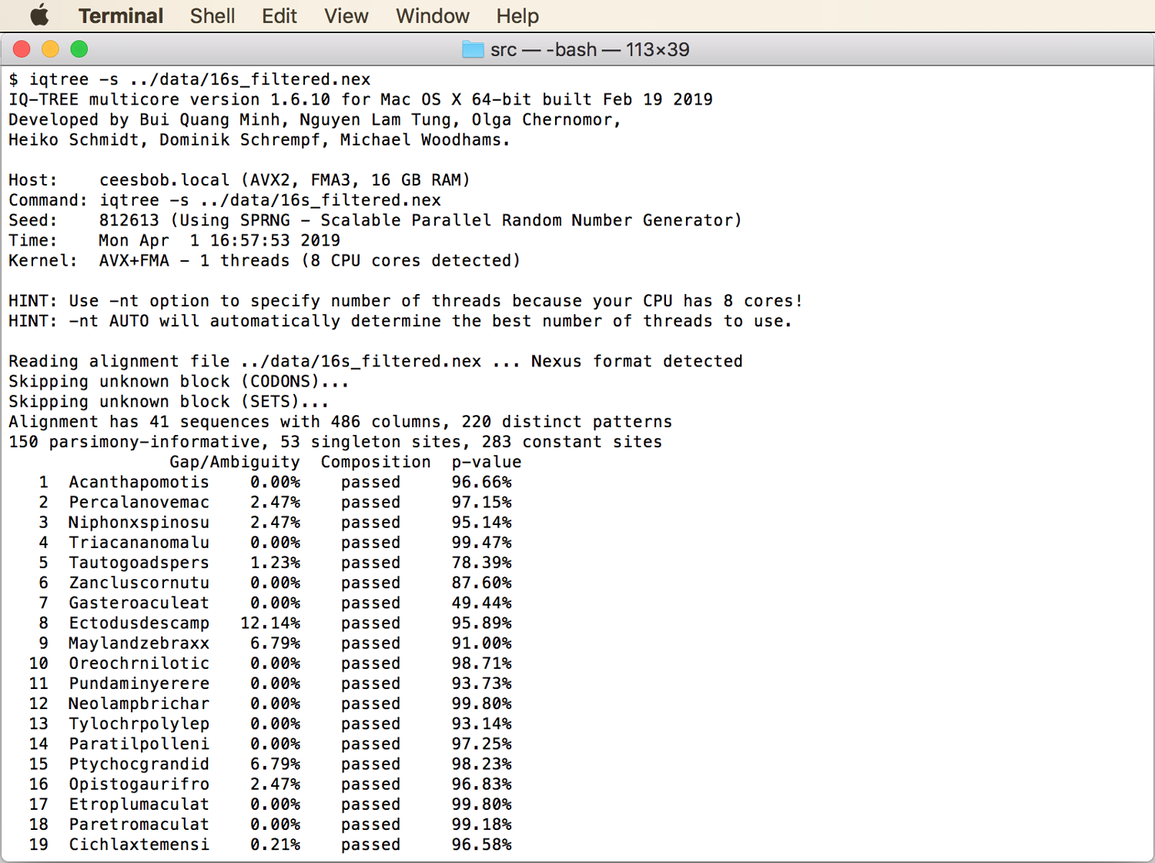
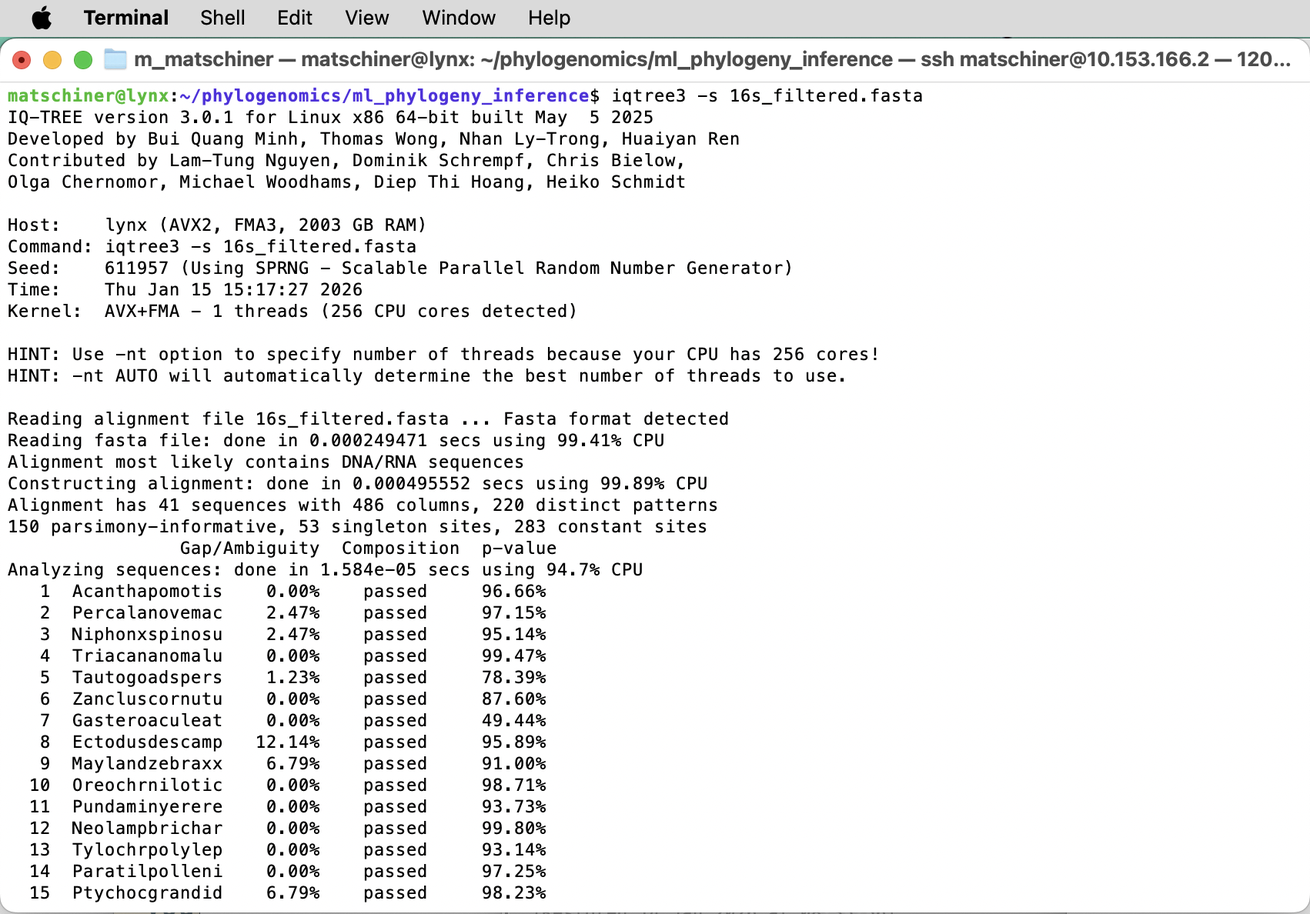
tested ml phylogeny inference

Changed region(s): [[0.0, 0.0, 1.0, 1.0], [0.7973, 0.9679, 1.0, 1.0], [0.6133, 0.9991, 0.6747, 1.0]]

diff --git a/ml_phylogeny_inference/scripts/get_mean_node_support.py b/ml_phylogeny_inference/scripts/get_mean_node_support.py
@@ -43,12 +43,12 @@ instring = infile.read()
 
 support_values = []
 if "posterior=" in instring:
-    pattern=re.compile('posterior=\d+\.*\d*')
+    pattern=re.compile('posterior=\\d+\\.*\\d*')
     matches = pattern.findall(instring)
     for match in matches:
         support_values.append(float(match[10:]))
 else:
-    pattern = re.compile('\)\d+\.*\d*:')
+    pattern = re.compile('\\)\\d+\\.*\\d*:')
     matches = pattern.findall(instring)
     for match in matches:
         support_values.append(float(match[1:-1]))

diff --git a/ml_phylogeny_inference/README.md b/ml_phylogeny_inference/README.md
@@ -27,8 +27,55 @@ In this tutorial, I will present maximum-likelihood phylogeny inference with one
 <a name="dataset"></a>
 ## Dataset
 
-<!--The data used in this tutorial are the filtered versions of the alignments generated for 16S and *RAG1* sequences in tutorial [Multiple Sequence Alignment](../multiple_sequence_alignment/README.md).-->
-The data used in this tutorial are two filtered alignments of 16S and *RAG1* sequences. These alignments contain sequence data for 41 teleost fish species and are 486 and 1,368 bp long, respectively. Both alignments are in FASTA format, [`16s_filtered.fasta`](data/16s_filtered.fasta) and [`rag1_filtered.fasta`](data/rag1_filtered.fasta).
+The dataset used here includes sequences for two genes; the mitochondrial 16S gene coding for [16S ribosomal RNA](https://en.wikipedia.org/wiki/16S_ribosomal_RNA) and the nuclear *RAG1* gene coding for [recombination activating protein 1](https://en.wikipedia.org/wiki/RAG1). The sequences represent the 41 species listed in the table below, and have been aligned already. The two alignment files are in FASTA format: [`16s_filtered.fasta`](data/16s_filtered.fasta) and [`rag1_filtered.fasta`](data/rag1_filtered.fasta).
+
+<center>
+
+| ID             | Species                     | Group                |
+|----------------|-----------------------------|----------------------|                     
+| Acanthapomotis | *Acantharchus pomotis*      | Non-cichlid          |
+| Acropomjaponic | *Acropoma japonicum*        | Non-cichlid          |
+| Aeoliscstrigat | *Aeoliscus strigatus*       | Non-cichlid          |
+| Ambassispcxxxx | *Ambassis* sp.              | Non-cichlid          |
+| Aplochepanchax | *Aplocheilus panchax*       | Non-cichlid          |
+| Ateleopjaponic | *Ateleopus japonicus*       | Non-cichlid          |
+| Beryxxxsplende | *Beryx splendens*           | Non-cichlid          |
+| Cichlaxtemensi | *Cichla temensis*           | Neotropical cichlids |
+| Chloropagassiz | *Chlorophthalmus agassizi*  | Non-cichlid          |
+| Danioxxrerioxx | *Danio rerio*               | Non-cichlid          |
+| Ectodusdescamp | *Ectodus descampsii*        | African cichlids     |
+| Etroplumaculat | *Etroplus maculatus*        | Indian cichlids      |
+| Gasteroaculeat | *Gasterosteus aculeatus*    | Non-cichlid          |
+| Geophagbrasili | *Geophagus brasiliensis*    | Neotropical cichlids |
+| Herichtcyanogu | *Herichthys cyanoguttatus*  | Neotropical cichlids |
+| Kurtusxgullive | *Kurtus gulliveri*          | Non-cichlid          |
+| Latesxxcalcari | *Lates calcarifer*          | Non-cichlid          |
+| Maylandzebraxx | *Maylandia zebra*           | African cichlids     |
+| Monocirpolyaca | *Monocirrhus polyacanthus*  | Non-cichlid          |
+| Mugilxxcephalu | *Mugil cephalus*            | Non-cichlid          |
+| Muraenomarmora | *Muraenolepis marmorata*    | Non-cichlid          |
+| Neolampbrichar | *Neolamprologus brichardi*  | African cichlids     |
+| Niphonxspinosu | *Niphon spinosus*           | Non-cichlid          |
+| Oncorhyketaxxx | *Oncorhynchus keta*         | Non-cichlid          |
+| Opistogaurifro | *Opistognathus aurifrons*   | Non-cichlid          |
+| Oreochrnilotic | *Oreochromis niloticus*     | African cichlids     |
+| Oryziaslatipes | *Oryzias latipes*           | Non-cichlid          |
+| Paratilpolleni | *Paratilapia polleni*       | Malagasy cichlids    |
+| Paretromaculat | *Paretroplus maculatus*     | Malagasy cichlids    |
+| Percalanovemac | *Percalates novemaculeata*  | Non-cichlid          |
+| Percichtruchax | *Percichthys trucha*        | Non-cichlid          |
+| Percopstransmo | *Percopsis transmontana*    | Non-cichlid          |
+| Polymixjaponic | *Polymixia japonica*        | Non-cichlid          |
+| Ptychocgrandid | *Ptychochromis grandidieri* | Malagasy cichlids    |
+| Pundaminyerere | *Pundamilia nyererei*       | African cichlids     |
+| Synbranmarmora | *Synbranchus marmoratus*    | Non-cichlid          |
+| Tautogoadspers | *Tautogolabrus adspersus*   | Non-cichlid          |
+| Triacananomalu | *Triacanthodes anomalus*    | Non-cichlid          |
+| Tylochrpolylep | *Tylochromis polylepis*     | African cichlids     |
+| Zancluscornutu | *Zanclus cornutus*          | Non-cichlid          |
+| Zeusxxxfaberxx | *Zeus faber*                | Non-cichlid          |
+</center>
+
 
 <a name="requirements"></a>
 ## Requirements
@@ -52,29 +99,29 @@ In this part of the tutorial, we will generate a simple maximum-likelihood phylo
 		iqtree3 -s FILE 
 	Here, "FILE" would need to be replaced with the actual file name of the alignment.
 
-* So, let's try to run a maximum-likelihood search, first for the 16S sequence data, using the alignment file [`16s_filtered.fasta`](data/16s_filtered.fasta). First, download that file into the tutorial directory on lynx:
+* So, let's try to run a maximum-likelihood search, first for the 16S sequence data, using the alignment file [`16s_filtered.fasta`](data/16s_filtered.fasta). First, copy that file into the tutorial directory on lynx:
 
 		wget https://raw.githubusercontent.com/mmatschiner/phylogenomics/refs/heads/main/ml_phylogeny_inference/data/16s_filtered.fasta
 		
 * Then, launch the maximum-likelihood search with IQ-TREE:
 
 		iqtree3 -s 16s_filtered.fasta 
-	As you'll see, this minimalistic choice of options for IQ-TREE in fact seems to be sufficient. IQ-TREE should finish the analysis within 10-30 seconds and present output as shown in the screenshot below.<p align="center"><img src="img/iqtree1.png" alt="IQTREE" width="600"></p>If you read the top section of the output, you'll see that IQ-TREE has apparently automatically determined the number of CPUs available on your machine and indicates that you could use them all by specifying `-nt AUTO`. You'll also see that IQ-TREE has correctly identified the Nexus format of the sequence alignment, and that it reports the proportion of missing data in each sequence.
+	As you'll see, this minimalistic choice of options for IQ-TREE in fact seems to be sufficient. IQ-TREE should finish the analysis within 10 seconds and present output as shown in the screenshot below.<p align="center"><img src="img/iqtree1.png" alt="IQTREE" width="600"></p>If you read the top section of the output, you'll see that IQ-TREE has apparently automatically determined the number of CPUs available on the server and indicates that you could use them all by specifying `-nt AUTO`. This, however, is not necessary with a small dataset like the 16S sequence data. You'll also see that IQ-TREE has correctly identified the FASTA format of the sequence alignment, and that it reports the proportion of missing data in each sequence.
 
 * Then, scroll down a little to this section:<p align="center"><img src="img/iqtree2.png" alt="IQTREE" width="600"></p>Here, you'll see that IQ-TREE has apparently automatically performed a test for the substitution model that best fits the sequence alignment. This means that the default setting of IQ-TREE is equivalent to the `-m MFP` option described in the help text (extended model selection followed by tree inference) ([Kalyaanamoorthy et al. 2017](https://www.nature.com/articles/nmeth.4285)). Alternatively, other substitution models could be specified, for example with `-m GTR`, but there is no need to do that; it is very convenient that IQ-TREE does the model selection for us. **Question 1:** Which model has been chosen by IQ-TREE, and based on which criterion? [(see answer)](#q1)
 	
 * Scroll to the end of the IQ-TREE output. There, you'll find parameter estimates for the selected substitution model, the maximum-likelihood value (given as logarithm after "BEST SCORE FOUND"), information on the run time, and the names of output files. Write down the maximum-likelihood value.
 
-* According to the IQ-TREE screen output, the best-scoring maximum-likelihood tree was written to file `16s_filtered.nex.treefile`:<p align="center"><img src="img/iqtree3.png" alt="IQTREE" width="600"></p>Apparently, all output file names were automatically chosen based on the name of the input file. We could have changed this using the `--prefix` option if we wanted to.
+* According to the IQ-TREE screen output, the best-scoring maximum-likelihood tree was written to file `16s_filtered.fasta.treefile`:<p align="center"><img src="img/iqtree3.png" alt="IQTREE" width="600"></p>All output file names were automatically chosen based on the name of the input file. We could have changed this using the `--prefix` option if we wanted to.
 
 <a name="figtree"></a>
 ## Reading and visualizing tree files
 
-In this part of the tutorial, we will explore how phylogenetic trees are encoded in Newick format, the format used by almost all phylogenetic sofware, and we will visualize the maximum-likelihood phylogeny generated with IQ-TREE with the program [FigTree](http://tree.bio.ed.ac.uk/software/figtree/) (fun fact: The Newick format is named after the [Newick's restaurant](http://www.newicks.com) in Dover, New Hampshire, where Joe Felsenstein and other developers of the format ["enjoyed the meal of lobsters"](http://evolution.genetics.washington.edu/phylip/newicktree.html) in 1986). A good explanation of the format and information on its origin can be also be found [here](http://evolution.genetics.washington.edu/phylip/newicktree.html).
+In this part of the tutorial, we will explore how phylogenetic trees are encoded in Newick format, the format used by almost all phylogenetic sofware, and we will visualize the maximum-likelihood phylogeny generated with IQ-TREE with the program [FigTree](http://tree.bio.ed.ac.uk/software/figtree/) (fun fact: The Newick format is named after the [Newick's restaurant](https://newickslobsterhouse.com) in Dover, New Hampshire, where Joe Felsenstein and other developers of the format ["enjoyed the meal of lobsters"](https://phylipweb.github.io/phylip/newicktree.html) in 1986). A good explanation of the format and information on its origin can be also be found [here](https://phylipweb.github.io/phylip/newicktree.html).
 
-* Open the file [`16s_filtered.nex.treefile`](res/16s_filtered.nex.treefile) in a text editor, or on the command line using, for example, the `less` command:
+* Open the file [`16s_filtered.fasta.treefile`](res/16s_filtered.fasta.treefile) in a text editor, or on the command line using, for example, the `less` command:
 
-		less 16s_filtered.nex.treefile
+		less 16s_filtered.fasta.treefile
 
 	You'll see a long string containing the taxon IDs, each of which is followed by a colon and a number, and together with these, the taxon IDs are embedded in parentheses. As an example, a short (and simplified) segment of the string is this:
 	
@@ -92,7 +139,7 @@ In this part of the tutorial, we will explore how phylogenetic trees are encoded
 		
 	By comparing the tree string and the visualization, you'll see that the parentheses encode the relationships among taxa. For example, the pair of parentheses around `Ambassispcxxxx:0.04,Synbranmarmora:0.24` specifies that the taxon names listed inside of it form one monophyletic clade. Thus, *Synbranchus marmoratus* ("Synbranmarmora") and *Ambassis* sp. ("Ambassispcxxxx") are defined as sister taxa that are closer to each other than either of them is to *Mugil cephalus* ("Mugilxxcephalu").
 	
-* Next, open the complete phylogeny generated by IQ-TREE (file [`16s_filtered.nex.treefile`](res/16s_filtered.nex.treefile)) in FigTree. It should look more or less as shown in the below screenshot.<p align="center"><img src="img/figtree4.png" alt="FigTree" width="600"></p>The way the phylogeny is rooted in the above screenshot is arbitrary, because we so far did not specify how the rooting should be done either in the IQ-TREE analysis or in the visualization with FigTree. So this phylogeny provides no evidence that *Acantharchus pomotis* ("Acanthpomotis") is the sister to all the other teleost fishes (only that is is first among these in the alphabet).
+* Next, open the complete phylogeny generated by IQ-TREE (file [`16s_filtered.fasta.treefile`](res/16s_filtered.fasta.treefile)) in FigTree (to do so, you first need to download it from lynx to your computer with `scp`). It should look more or less as shown in the below screenshot.<p align="center"><img src="img/figtree4.png" alt="FigTree" width="600"></p>The way the phylogeny is rooted in the above screenshot is arbitrary, because we so far did not specify how the rooting should be done either in the IQ-TREE analysis or in the visualization with FigTree. So this phylogeny provides no evidence that *Acantharchus pomotis* ("Acanthpomotis") is the sister to all the other teleost fishes (only that is is first among these in the alphabet).
 
 * To correct the rooting of the phylogeny, we can specify an outgroup. If we would read up about the taxonomy of the species included in this dataset, we would find that zebrafish (*Danio rerio*; "Danioxxrerioxx") is a member of the clade named "Otomorpha" whereas all other species belong to the clade named "Euteleosteomorpha" ([Betancur-R. et al. 2017](https://bmcevolbiol.biomedcentral.com/articles/10.1186/s12862-017-0958-3)). Thus, the correct root of the phylogeny must lie between zebrafish and the other taxa. To specify zebrafish as an outgroup, click on the branch leading to "Danioxxrerioxx", as shown in the next screenshot.
 <p align="center"><img src="img/figtree5.png" alt="FigTree" width="600"></p>
@@ -115,24 +162,24 @@ As we've seen, the IQ-TREE phylogeny of 16S sequences does not perfectly agree w
 
 * Thus, try to run IQ-TREE with option `-B 1000` to use the original alignment for the inference of the maximum-likelihood tree, and bootstrapped alignments to assess node support on this tree:
 
-		iqtree3 -s 16s_filtered.nex -B 1000
+		iqtree3 -s 16s_filtered.fasta -B 1000
 
 * Unless you've removed your previous result files, you'll see an error message indicating that IQ-TREE recognizes the previous result files and is hesitant to overwrite these. To fix this, we can specify a prefix to use different output-file names, with the `--prefix` option:
 
-		iqtree3 -s 16s_filtered.nex -B 1000 --prefix 16s_filtered.bs.nex
+		iqtree3 -s 16s_filtered.fasta -B 1000 --prefix 16s_filtered.bs.fasta
 		
-	The analysis should not take much longer than the previous one. IQ-TREE will then write the phylogenetic tree to file `16s_filtered.bs.nex.treefile`.
+	The analysis should not take much longer than the previous one. IQ-TREE will then write the phylogenetic tree to file `16s_filtered.bs.fasta.treefile`.
 
-* Open file [`16s_filtered.bs.nex.treefile`](res/16s_filtered.bs.nex.treefile) in FigTree. Once again increase the font size for tip labels, remove the scale bar, root with zebrafish (*Danio rerio*; "Danioxxrerioxx"), and sort all taxa according to node order. In principle, the phylogeny should now look exactly as the one without bootstraps generated earlier, given that the maximum-likelihood inference should be independent of the additional bootstrap procedure. However, due to stochastic variation in the inference, it is possible that IQ-TREE does not always find the actual maximum-likelihood phylogeny, but instead one with a slightly lower likelihood. **Question 4:** Is the likelihood now reported in the screen output identical to the previously reported likelihood? [(see answer)](#q4)
+* Open file [`16s_filtered.bs.fasta.treefile`](res/16s_filtered.bs.fasta.treefile) in FigTree. Once again increase the font size for tip labels, remove the scale bar, root with zebrafish (*Danio rerio*; "Danioxxrerioxx"), and sort all taxa according to node order. In principle, the phylogeny should now look exactly as the one without bootstraps generated earlier, given that the maximum-likelihood inference should be independent of the additional bootstrap procedure. However, due to stochastic variation in the inference, it is possible that IQ-TREE does not always find the actual maximum-likelihood phylogeny, but instead one with a slightly lower likelihood. **Question 4:** Is the likelihood now reported in the screen output identical to the previously reported likelihood? [(see answer)](#q4)
 
 * To see node-support values based on bootstrapping, set a tick in the checkbox for "Node Labels", and select "label" from the "Display" drop-down menu, as shown in the below screenshot.<p align="center"><img src="img/figtree8.png" alt="RAxML" width="600"></p> **Question 5:** Can this phylogeny be considered reliable? [(see answer)](#q5)
 
 <a name="partition"></a>
 ## Partitioned maximum-likelihood inference
 
-Given that node support in the phylogeny for 16S sequences turned out to be poor, we'll try now if the *RAG1* alignment leads to a better-supported phylogeny. Because the model selection carried out for the *RAG1* alignment in tutorial [Substitution Model Selection](../substitution_model_selection/README.md) showed support for the use of separate substitution models for each codon position, we will partition the alignment accordingly.
+Given that node support in the phylogeny for 16S sequences turned out to be poor, we'll try now if the *RAG1* alignment leads to a better-supported phylogeny. Because different codon positions of a coding sequence often evolve at different rates, we will partition the alignment accordingly.
 
-* Recall that for the automated model selection with PAUP\* in tutorial [Substitution Model Selection](../substitution_model_selection/README.md), we had used a Nexus file in which the codon positions were specified in a block near the end of the file. We are now going to use a similar block; however, because IQ-TREE expects this block not in the alignment file but in a separate file, we will first write this file. To do so, open a text editor, then type the following lines:
+* To define partitions within an alignment, we need to specify these in a separate file in Nexus format. To do so, open a text editor, then type the following lines:
 
 		#NEXUS
 		BEGIN SETS;
@@ -140,20 +187,20 @@ Given that node support in the phylogeny for 16S sequences turned out to be poor
 			CHARSET codon2 = 2-1368\3;
 			CHARSET codon3 = 3-1368\3;
 		END; 
-	In this block, which is also written in the flexible Nexus format, "codon1", "codon2", and "codon3" are names for the individual partitions (you're free to choose these as you like), and "2-1368\3" for example specifies that each third site, counting from position 2 (thus sites 2, 5, 8,...) should be considered part of this partition. Save the file and name it `partitions.txt`.
+	In this block, "codon1", "codon2", and "codon3" are names for the individual partitions (you're free to choose these as you like), and "2-1368\3", for example, specifies that each third site, counting from position 2 (thus sites 2, 5, 8,...) should be considered part of this partition. Save the file and name it `partitions.txt`.
 	
-* Run IQ-TREE for the *RAG1* alignment as before, and specify the name of the file with the partition information with the option `-p` (with this option, relative branch lengths will be identical between partitions, but overall substitution rates may differ). The substitution model will again be chosen by IQ-TREE, this time independently for each partition. And as before, we are going to use 1,000 ultrafast bootstrap replicates, and we'll specify a prefix for the output files:
+* Run IQ-TREE for the *RAG1* alignment, specifying the name of the file with the partition information with the option `-p` (with this option, relative branch lengths will be identical between partitions, but overall substitution rates may differ). The substitution model will again be chosen by IQ-TREE, this time independently for each partition. And as before, we are going to use 1,000 ultrafast bootstrap replicates, and we'll specify a prefix for the output files:
 
-		cp data/rag1_filtered.nex .
-		iqtree3 -s rag1_filtered.nex -p partitions.txt -B 1000 --prefix rag1_filtered.bs.nex
+		wget https://raw.githubusercontent.com/mmatschiner/phylogenomics/refs/heads/main/ml_phylogeny_inference/data/rag1_filtered.fasta
+		iqtree3 -s rag1_filtered.fasta -p partitions.txt -B 1000 --prefix rag1_filtered.bs.fasta
 
 * Have a look through the screen output written by IQ-TREE. **Question 6:** Which models were now selected by IQ-TREE for the three partitions? [(see answer)](#q6)
 		
-* IQ-TREE should have written the resulting maximum-likelihood phylogeny with bootstrap support values to file [`rag1_filtered.bs.nex.treefile`](res/rag1_filtered.bs.nex.treefile). Open this file in FigTree. After once again rooting and sorting the phylogeny, the phylogeny should look as shown in the below screenshot.<p align="center"><img src="img/figtree9.png" alt="RAxML" width="600"></p> **Question 7:** Does the *RAG1* phylogeny look more reliable than the 16S phylogeny? [(see answer)](#q7)
+* IQ-TREE should have written the resulting maximum-likelihood phylogeny with bootstrap support values to file [`rag1_filtered.bs.fasta.treefile`](res/rag1_filtered.bs.fasta.treefile). Open this file in FigTree. After once again rooting and sorting the phylogeny, the phylogeny should look as shown in the below screenshot.<p align="center"><img src="img/figtree9.png" alt="RAxML" width="600"></p> **Question 7:** Does the *RAG1* phylogeny look more reliable than the 16S phylogeny? [(see answer)](#q7)
 
-* Instead of forcing IQ-TREE to use separate partitions for each of the three codon positions (based on the results of model selection with PAUP\* in tutorial [Substitution Model Selection](../substitution_model_selection/README.md)), we could also allow IQ-TREE to determine the ideal partitioning scheme itself. To do so, use the `-m MFP` and `--merge` options jointly (replace these with the `-m MFP+MERGE` option if you use IQ-TREE v.1.X):
+* Instead of forcing IQ-TREE to use separate partitions for each of the three codon positions, we could also allow IQ-TREE to determine the ideal partitioning scheme itself. To do so, use the `-m MFP` and `--merge` options jointly:
 
-		iqtree3 -s rag1_filtered.nex -p partitions.txt -B 1000 -m MFP --merge --prefix rag1_filtered.bs.merge.nex
+		iqtree3 -s rag1_filtered.fasta -p partitions.txt -B 1000 -m MFP --merge --prefix rag1_filtered.bs.merge.fasta
 
 	**Question 8:** Does this change the resulting partitioning scheme? [(see answer)](#q8)
 
@@ -165,15 +212,15 @@ We have now used bootstrapping to assess node support in two different phylogeni
 
 * As a measure of the distance between two trees, the [Robinson-Foulds distance](https://en.wikipedia.org/wiki/Robinson–Foulds_metric) ([Robinson and Foulds 1981](https://www.sciencedirect.com/science/article/pii/0025556481900432?via%3Dihub)) is commonly used. This measure is defined as the number of topological rearrangements that are required to convert one of the trees into the other. It can be calculated with IQ-TREE, specifying one of the trees with option `-t` and the other with `--tree-dist2`:
 
-		iqtree3 -t 16s_filtered.bs.nex.treefile --tree-dist2 rag1_filtered.bs.nex.treefile
+		iqtree3 -t 16s_filtered.bs.fasta.treefile --tree-dist2 rag1_filtered.bs.fasta.treefile
 		
-	IQ-TREE should then write the output to a new file named `16s_filtered.bs.nex.treefile.rfdist`. Open this file in a text editor or with the `less` command. **Question 9:** How many topological rearrangements separate the 16S and *RAG1* trees? [(see answer)](#q9)
+	IQ-TREE should then write the output to a new file named `16s_filtered.bs.fasta.treefile.rfdist`. Open this file in a text editor or with the `less` command. **Question 9:** How many topological rearrangements separate the 16S and *RAG1* trees? [(see answer)](#q9)
 
 * To compare the overall support of the two trees, we can calculate the mean bootstrap support for both trees with the Python script [`get_mean_node_support.py`](src/get_mean_node_support.py):
 
-		cp scripts/get_mean_node_support.py .
-		python3 get_mean_node_support.py 16s_filtered.bs.nex.treefile
-		python3 get_mean_node_support.py rag1_filtered.bs.nex.treefile 
+		wget https://raw.githubusercontent.com/mmatschiner/phylogenomics/refs/heads/main/ml_phylogeny_inference/scripts/get_mean_node_support.py
+		python3 get_mean_node_support.py 16s_filtered.bs.fasta.treefile
+		python3 get_mean_node_support.py rag1_filtered.bs.fasta.treefile 
 
 	You'll probably see that the *RAG1* phylogeny has a much higher mean node support (84.9 in my analysis) than the 16S phylogeny (68.6 in my analysis).
 
@@ -187,25 +234,25 @@ The comparison of phylogenies based on the short 16S alignment and the longer *R
 
 		#NEXUS
 		BEGIN SETS;
-			CHARSET 16S = 16s_filtered.nex: *;
-			CHARSET rag1_codon1 = rag1_filtered.nex: 1-1368\3;
-			CHARSET rag1_codon2 = rag1_filtered.nex: 2-1368\3;
-			CHARSET rag1_codon3 = rag1_filtered.nex: 3-1368\3;
+			CHARSET 16S = 16s_filtered.fasta: *;
+			CHARSET rag1_codon1 = rag1_filtered.fasta: 1-1368\3;
+			CHARSET rag1_codon2 = rag1_filtered.fasta: 2-1368\3;
+			CHARSET rag1_codon3 = rag1_filtered.fasta: 3-1368\3;
 		END;
 		
 	The asterisk on the line for 16S specifies that all sites of that alignment should be included in partition "16S".
 	
 * Run IQ-TREE with all partitions jointly, specifying the file `partitions.txt` again as before:
 	
-		iqtree -p partitions.txt -B 1000 --prefix concatenated.bs.nex
+		iqtree3 -p partitions.txt -B 1000 --prefix concatenated.bs.fasta
 
-	Note that this time, the option `-s` to specify an alignment file is no longer needed. This analysis should write the resulting phylogeny with bootstrap-support values to a new file called `concatenated.bs.nex.treefile`.
+	Note that this time, the option `-s` to specify an alignment file is no longer needed. This analysis should write the resulting phylogeny with bootstrap-support values to a new file called `concatenated.bs.fasta.treefile`.
 	
-* Open file [`concatenated.bs.nex.treefile`](res/concatenated.bs.nex.treefile) in FigTree and find out if the support values now appear better than they did in the phylogeny based on the *RAG1* gene alone. The phylogeny should look more or less as shown in the next screenshot.<p align="center"><img src="img/figtree10.png" alt="RAxML" width="600"></p>
+* Open file [`concatenated.bs.fasta.treefile`](res/concatenated.bs.fasta.treefile) in FigTree and find out if the support values now appear better than they did in the phylogeny based on the *RAG1* gene alone. The phylogeny should look more or less as shown in the next screenshot.<p align="center"><img src="img/figtree10.png" alt="RAxML" width="600"></p>
 
 * Also quantify again the overall node support with the Python script [`get_mean_node_support.py`](src/get_mean_node_support.py):
 
-		python3 get_mean_node_support.py concatenated.bs.nex.treefile 
+		python3 get_mean_node_support.py concatenated.bs.fasta.treefile 
 	**Question 10:** How good is the overall support for this phylogeny compared to that of the phylogeny based only on the *RAG1* gene? [(see answer)](#q10) 
 
 <br><hr>
@@ -216,7 +263,7 @@ The comparison of phylogenies based on the short 16S alignment and the longer *R
 
 <a name="q1"></a>
 
-* **Question 1:** The "TIM2e+I+G4" model was chosen, according to the "Bayesian information criterion" (BIC) ([Schwarz 1978](https://projecteuclid.org/euclid.aos/1176344136)). The "+I" and "+G4" parts of the model name indicate that it includes a parameter for the proportion of completely invariable alignment sites and another parameter defining the shape of a Gamma distribution to approximate among-site rate variation. The TIM2e model assumes that the rates of A/C and A/T transversions (and their reverse) are equal, and also that the rates of C/G and G/T transversions (and their reverse) are equal. More information on all substitution models used by IQ-TREE can be found on [http://www.iqtree.org/doc/Substitution-Models](http://www.iqtree.org/doc/Substitution-Models).
+* **Question 1:** Most likely, the "TIM2+I+G4" or "TIM2e+I+G4" model were chosen, according to the "Bayesian information criterion" (BIC) ([Schwarz 1978](https://projecteuclid.org/euclid.aos/1176344136)). The "+I" and "+G4" parts of the model name indicate that it includes a parameter for the proportion of completely invariable alignment sites and another parameter defining the shape of a Gamma distribution to approximate among-site rate variation. The TIM2 and TIM2e models assume that the rates of A/C and A/T transversions (and their reverse) are equal, and also that the rates of C/G and G/T transversions (and their reverse) are equal. Unlike TIM2, TIM2e also assumes that all base frequencies are equal. More information on all substitution models used by IQ-TREE can be found on [http://www.iqtree.org/doc/Substitution-Models](http://www.iqtree.org/doc/Substitution-Models).
 
 <a name="q2"></a>
 
@@ -236,7 +283,7 @@ The comparison of phylogenies based on the short 16S alignment and the longer *R
 
 <a name="q6"></a>
 
-* **Question 6:** IQ-TREE should have selected "TPM2u+F+G4" or "TPM2+F+I+G4" as the best-fitting model for the first codon position (partition "codon1"), "K3P+I+G4" or "K3P+R2" for the second codon position (partition "codon2"), and "TPM2u+F+R3" or "TVM+F+R3" for the third codon position (partition "codon3"). More information about these models can be found at [http://www.iqtree.org/doc/Substitution-Models](http://www.iqtree.org/doc/Substitution-Models). If the lines reporting the models are separated or followed by warnings about log-likelihoods, these may indicate that in some cases, the best likelihoods were not found. In such cases, rerunning the analysis may solve the issue, but that is not needed for this tutorial.
+* **Question 6:** IQ-TREE should have selected "TPM2u+F+G4" or a similar model as the best-fitting model for the first codon position (partition "codon1"), "K3P+I+G4" or similar for the second codon position (partition "codon2"), and "TPM2u+F+R3", "TVM+F+R3", or similar for the third codon position (partition "codon3"). More information about these models can be found at [http://www.iqtree.org/doc/Substitution-Models](http://www.iqtree.org/doc/Substitution-Models). If the lines reporting the models are separated or followed by warnings about log-likelihoods, these may indicate that in some cases, the best likelihoods were not found. In such cases, rerunning the analysis may solve the issue, but that is not needed for this tutorial.
 
 <a name="q7"></a>
 
